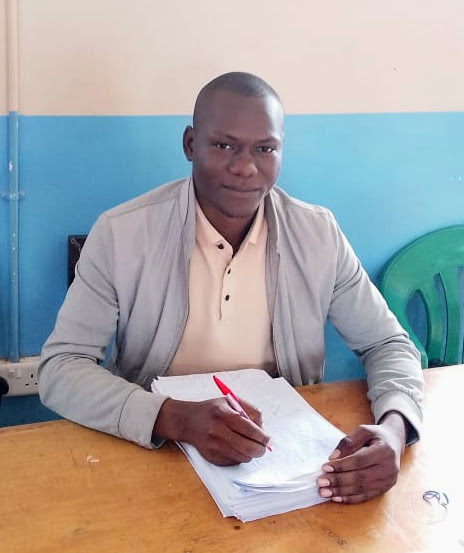
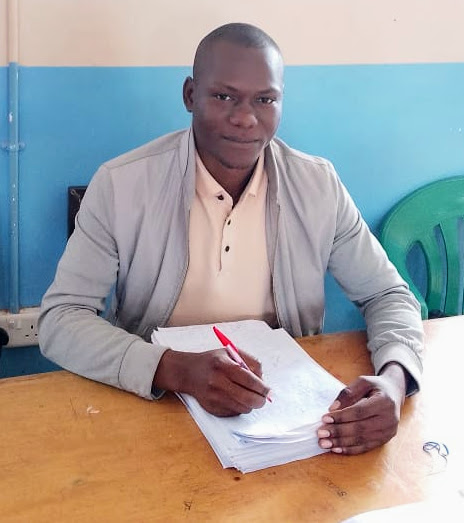
resized Peter's profile image

diff --git a/index.html b/index.html
@@ -1073,8 +1073,7 @@ The Everlight College school uniform stands as a hallmark of the Everlight ident
                     </p>                
                 </div>
             </div> 
-            
-            <!-- Biography Paragraph -->
+    
             <div class="text-slate-700 leading-relaxed">
                 <p class="text-xs md:text-sm">
                     Tusubira Vincent Francis is a professional teacher of Physics and Math who brings integrity, competency, and enthusiasm to his educational practice. He holds a Bachelor’s degree in Science Education, which provides the foundation for his dedicated approach to secondary instruction. Driven by a passion for the sciences, he focuses on transforming his students into effective problem solvers by fostering critical thinking and a deep understanding of mathematical and physical principles.
